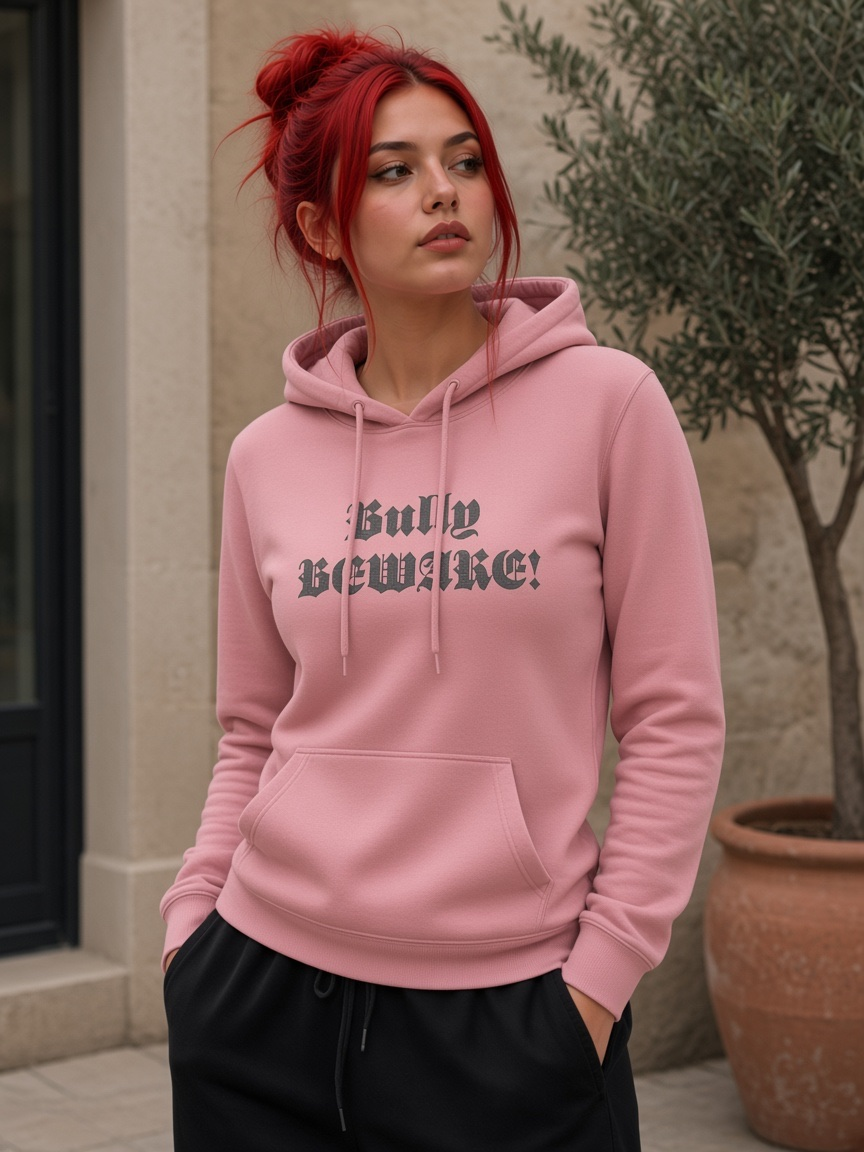
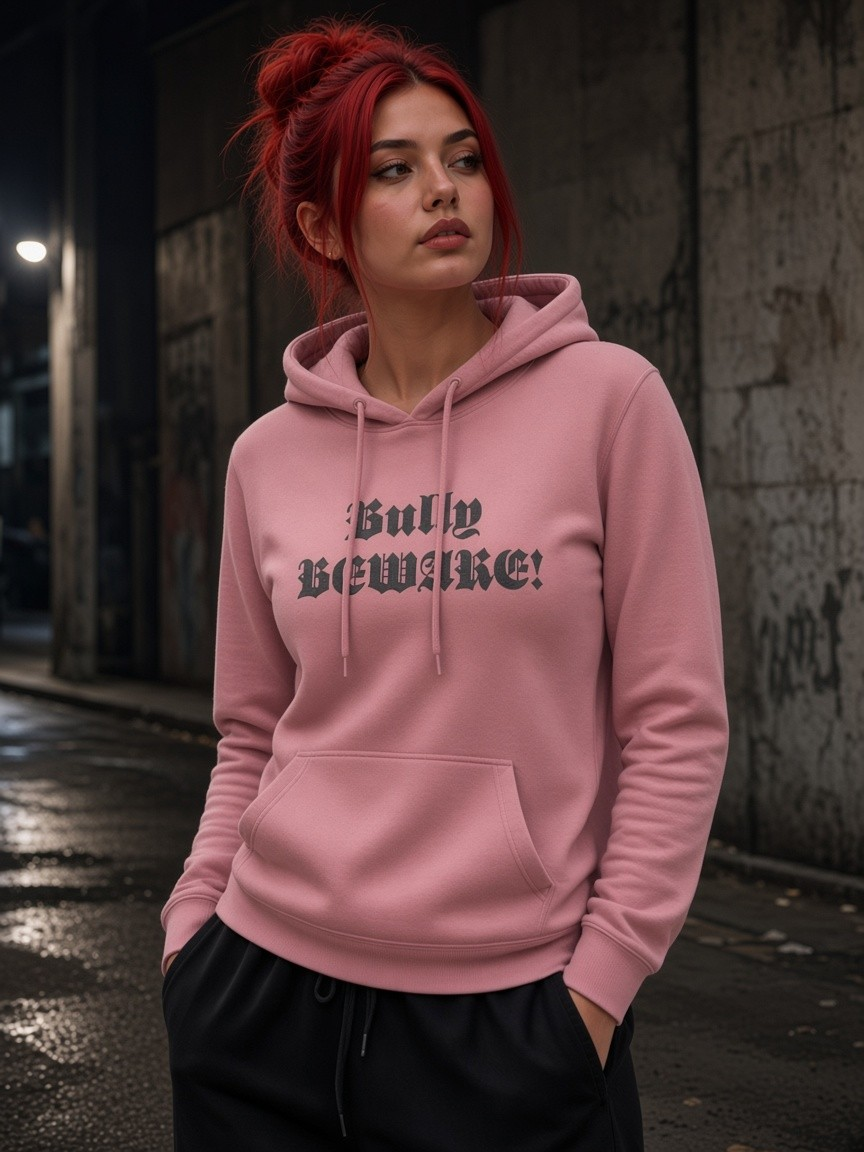
Refresh Beware and Mark Tee lookbook to gritty streetwear casting.
Swap soft catalog backgrounds for alleys, night city, and concrete with locked gothic Beware prints and micro Mark embroidery; cache-bust ASSET_V.

diff --git a/collections.html b/collections.html
@@ -20,8 +20,8 @@
   <meta name="twitter:image" content="https://jimmythegod100.github.io/bvlly/images/og.jpg">
   <link rel="canonical" href="https://jimmythegod100.github.io/bvlly/collections.html">
   <link rel="icon" href="favicon.svg">
-  <link rel="stylesheet" href="css/brand.css?v=20260922t">
-  <link rel="stylesheet" href="css/main.css?v=20260922t">
+  <link rel="stylesheet" href="css/brand.css?v=20260922v">
+  <link rel="stylesheet" href="css/main.css?v=20260922v">
 </head>
 <body data-page="collections">
   <header class="site-header" data-site-header></header>
@@ -43,8 +43,8 @@
 
   <footer class="site-footer" data-site-footer></footer>
 
-  <script src="js/site-config.js?v=20260922t"></script>
-  <script src="js/catalog.js?v=20260922t"></script>
-  <script src="js/layout.js?v=20260922t"></script>
+  <script src="js/site-config.js?v=20260922v"></script>
+  <script src="js/catalog.js?v=20260922v"></script>
+  <script src="js/layout.js?v=20260922v"></script>
 </body>
 </html>

diff --git a/contact.html b/contact.html
@@ -20,8 +20,8 @@
   <meta name="twitter:image" content="https://jimmythegod100.github.io/bvlly/images/og.jpg">
   <link rel="canonical" href="https://jimmythegod100.github.io/bvlly/contact.html">
   <link rel="icon" href="favicon.svg">
-  <link rel="stylesheet" href="css/brand.css?v=20260922t">
-  <link rel="stylesheet" href="css/main.css?v=20260922t">
+  <link rel="stylesheet" href="css/brand.css?v=20260922v">
+  <link rel="stylesheet" href="css/main.css?v=20260922v">
 </head>
 <body data-page="contact">
   <header class="site-header" data-site-header></header>
@@ -79,8 +79,8 @@
 
   <footer class="site-footer" data-site-footer></footer>
 
-  <script src="js/site-config.js?v=20260922t"></script>
-  <script src="js/catalog.js?v=20260922t"></script>
-  <script src="js/layout.js?v=20260922t"></script>
+  <script src="js/site-config.js?v=20260922v"></script>
+  <script src="js/catalog.js?v=20260922v"></script>
+  <script src="js/layout.js?v=20260922v"></script>
 </body>
 </html>

diff --git a/privacy.html b/privacy.html
@@ -20,8 +20,8 @@
   <meta name="twitter:image" content="https://jimmythegod100.github.io/bvlly/images/og.jpg">
   <link rel="canonical" href="https://jimmythegod100.github.io/bvlly/privacy.html">
   <link rel="icon" href="favicon.svg">
-  <link rel="stylesheet" href="css/brand.css?v=20260922t">
-  <link rel="stylesheet" href="css/main.css?v=20260922t">
+  <link rel="stylesheet" href="css/brand.css?v=20260922v">
+  <link rel="stylesheet" href="css/main.css?v=20260922v">
 </head>
 <body data-page="privacy">
   <header class="site-header" data-site-header></header>
@@ -41,8 +41,8 @@
 
   <footer class="site-footer" data-site-footer></footer>
 
-  <script src="js/site-config.js?v=20260922t"></script>
-  <script src="js/catalog.js?v=20260922t"></script>
-  <script src="js/layout.js?v=20260922t"></script>
+  <script src="js/site-config.js?v=20260922v"></script>
+  <script src="js/catalog.js?v=20260922v"></script>
+  <script src="js/layout.js?v=20260922v"></script>
 </body>
 </html>

diff --git a/product.html b/product.html
@@ -20,8 +20,8 @@
   <meta name="twitter:image" content="https://jimmythegod100.github.io/bvlly/images/og.jpg">
   <link rel="canonical" href="https://jimmythegod100.github.io/bvlly/product.html">
   <link rel="icon" href="favicon.svg">
-  <link rel="stylesheet" href="css/brand.css?v=20260922t">
-  <link rel="stylesheet" href="css/main.css?v=20260922t">
+  <link rel="stylesheet" href="css/brand.css?v=20260922v">
+  <link rel="stylesheet" href="css/main.css?v=20260922v">
 </head>
 <body data-page="product">
   <header class="site-header" data-site-header></header>
@@ -34,8 +34,8 @@
 
   <footer class="site-footer" data-site-footer></footer>
 
-  <script src="js/site-config.js?v=20260922t"></script>
-  <script src="js/catalog.js?v=20260922t"></script>
-  <script src="js/layout.js?v=20260922t"></script>
+  <script src="js/site-config.js?v=20260922v"></script>
+  <script src="js/catalog.js?v=20260922v"></script>
+  <script src="js/layout.js?v=20260922v"></script>
 </body>
 </html>

diff --git a/thanks.html b/thanks.html
@@ -20,8 +20,8 @@
   <meta name="twitter:image" content="https://jimmythegod100.github.io/bvlly/images/og.jpg">
   <link rel="canonical" href="https://jimmythegod100.github.io/bvlly/thanks.html">
   <link rel="icon" href="favicon.svg">
-  <link rel="stylesheet" href="css/brand.css?v=20260922t">
-  <link rel="stylesheet" href="css/main.css?v=20260922t">
+  <link rel="stylesheet" href="css/brand.css?v=20260922v">
+  <link rel="stylesheet" href="css/main.css?v=20260922v">
 </head>
 <body data-page="thanks">
   <header class="site-header" data-site-header></header>
@@ -36,8 +36,8 @@
 
   <footer class="site-footer" data-site-footer></footer>
 
-  <script src="js/site-config.js?v=20260922t"></script>
-  <script src="js/catalog.js?v=20260922t"></script>
-  <script src="js/layout.js?v=20260922t"></script>
+  <script src="js/site-config.js?v=20260922v"></script>
+  <script src="js/catalog.js?v=20260922v"></script>
+  <script src="js/layout.js?v=20260922v"></script>
 </body>
 </html>

diff --git a/about.html b/about.html
@@ -20,8 +20,8 @@
   <meta name="twitter:image" content="https://jimmythegod100.github.io/bvlly/images/og.jpg">
   <link rel="canonical" href="https://jimmythegod100.github.io/bvlly/about.html">
   <link rel="icon" href="favicon.svg">
-  <link rel="stylesheet" href="css/brand.css?v=20260922t">
-  <link rel="stylesheet" href="css/main.css?v=20260922t">
+  <link rel="stylesheet" href="css/brand.css?v=20260922v">
+  <link rel="stylesheet" href="css/main.css?v=20260922v">
 </head>
 <body data-page="about">
   <header class="site-header" data-site-header></header>
@@ -41,8 +41,8 @@
 
   <footer class="site-footer" data-site-footer></footer>
 
-  <script src="js/site-config.js?v=20260922t"></script>
-  <script src="js/catalog.js?v=20260922t"></script>
-  <script src="js/layout.js?v=20260922t"></script>
+  <script src="js/site-config.js?v=20260922v"></script>
+  <script src="js/catalog.js?v=20260922v"></script>
+  <script src="js/layout.js?v=20260922v"></script>
 </body>
 </html>

diff --git a/shop.html b/shop.html
@@ -20,8 +20,8 @@
   <meta name="twitter:image" content="https://jimmythegod100.github.io/bvlly/images/og.jpg">
   <link rel="canonical" href="https://jimmythegod100.github.io/bvlly/shop.html">
   <link rel="icon" href="favicon.svg">
-  <link rel="stylesheet" href="css/brand.css?v=20260922t">
-  <link rel="stylesheet" href="css/main.css?v=20260922t">
+  <link rel="stylesheet" href="css/brand.css?v=20260922v">
+  <link rel="stylesheet" href="css/main.css?v=20260922v">
 </head>
 <body data-page="shop">
   <header class="site-header" data-site-header></header>
@@ -44,8 +44,8 @@
 
   <footer class="site-footer" data-site-footer></footer>
 
-  <script src="js/site-config.js?v=20260922t"></script>
-  <script src="js/catalog.js?v=20260922t"></script>
-  <script src="js/layout.js?v=20260922t"></script>
+  <script src="js/site-config.js?v=20260922v"></script>
+  <script src="js/catalog.js?v=20260922v"></script>
+  <script src="js/layout.js?v=20260922v"></script>
 </body>
 </html>

diff --git a/404.html b/404.html
@@ -20,8 +20,8 @@
   <meta name="twitter:image" content="https://jimmythegod100.github.io/bvlly/images/og.jpg">
   <link rel="canonical" href="https://jimmythegod100.github.io/bvlly/404.html">
   <link rel="icon" href="favicon.svg">
-  <link rel="stylesheet" href="css/brand.css?v=20260922t">
-  <link rel="stylesheet" href="css/main.css?v=20260922t">
+  <link rel="stylesheet" href="css/brand.css?v=20260922v">
+  <link rel="stylesheet" href="css/main.css?v=20260922v">
 </head>
 <body data-page="404">
   <header class="site-header" data-site-header></header>
@@ -38,8 +38,8 @@
 
   <footer class="site-footer" data-site-footer></footer>
 
-  <script src="js/site-config.js?v=20260922t"></script>
-  <script src="js/catalog.js?v=20260922t"></script>
-  <script src="js/layout.js?v=20260922t"></script>
+  <script src="js/site-config.js?v=20260922v"></script>
+  <script src="js/catalog.js?v=20260922v"></script>
+  <script src="js/layout.js?v=20260922v"></script>
 </body>
 </html>

diff --git a/index.html b/index.html
@@ -23,8 +23,8 @@
   <meta name="twitter:image" content="https://jimmythegod100.github.io/bvlly/images/og.jpg">
   <link rel="canonical" href="https://jimmythegod100.github.io/bvlly/">
   <link rel="icon" href="favicon.svg">
-  <link rel="stylesheet" href="css/brand.css?v=20260922t">
-  <link rel="stylesheet" href="css/main.css?v=20260922t">
+  <link rel="stylesheet" href="css/brand.css?v=20260922v">
+  <link rel="stylesheet" href="css/main.css?v=20260922v">
 </head>
 <body data-page="home">
   <header class="site-header" data-site-header></header>
@@ -87,8 +87,8 @@
 
   <footer class="site-footer" data-site-footer></footer>
 
-  <script src="js/site-config.js?v=20260922t"></script>
-  <script src="js/catalog.js?v=20260922t"></script>
-  <script src="js/layout.js?v=20260922t"></script>
+  <script src="js/site-config.js?v=20260922v"></script>
+  <script src="js/catalog.js?v=20260922v"></script>
+  <script src="js/layout.js?v=20260922v"></script>
 </body>
 </html>

diff --git a/js/site-config.js b/js/site-config.js
@@ -7,7 +7,7 @@
  */
 (function () {
   // Bump when lookbook JPGs change so browsers skip stale CDN/disk cache.
-  const ASSET_V = '20260922t';
+  const ASSET_V = '20260922v';
 
   const COLORWAYS = [
     { name: 'Pink', slug: 'pink', hex: '#e5b3c5' },
@@ -47,7 +47,7 @@
       subhead: 'Oversized heavyweight streetwear. The exotic bully — compact, stubborn, unhurried — is the stance behind the cut, the gothic print, and the 1×1″ embroidered mark.',
       mascot: asset('images/brand/bully-mascot.png'),
       image: asset('images/lookbook/hero-mark-hood.jpg'),
-      fit: 'contain',
+      fit: 'cover',
       ctaPrimary: { label: 'Shop the drop', href: 'shop.html' },
       ctaSecondary: { label: 'The mark', href: 'about.html' }
     },
